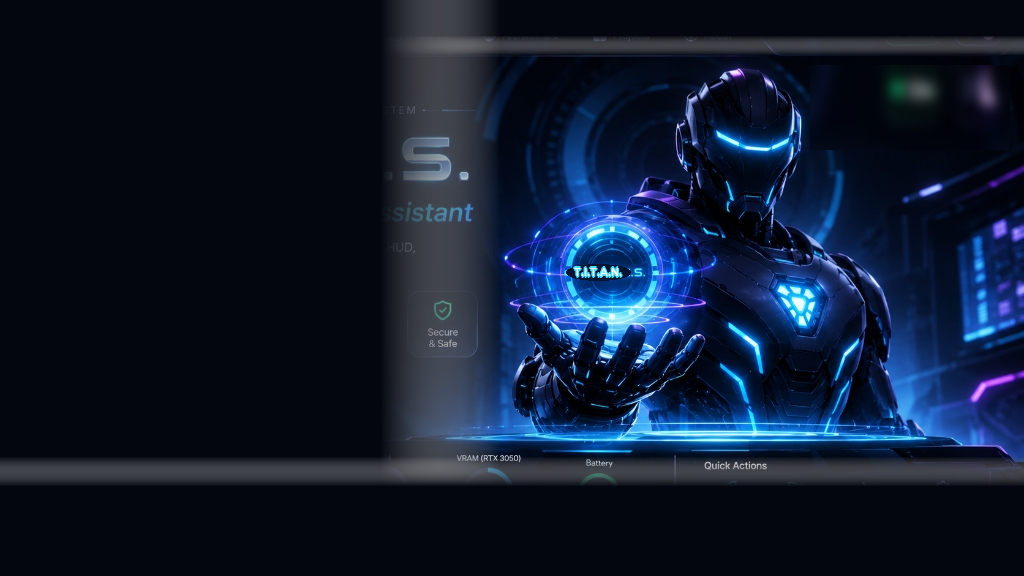
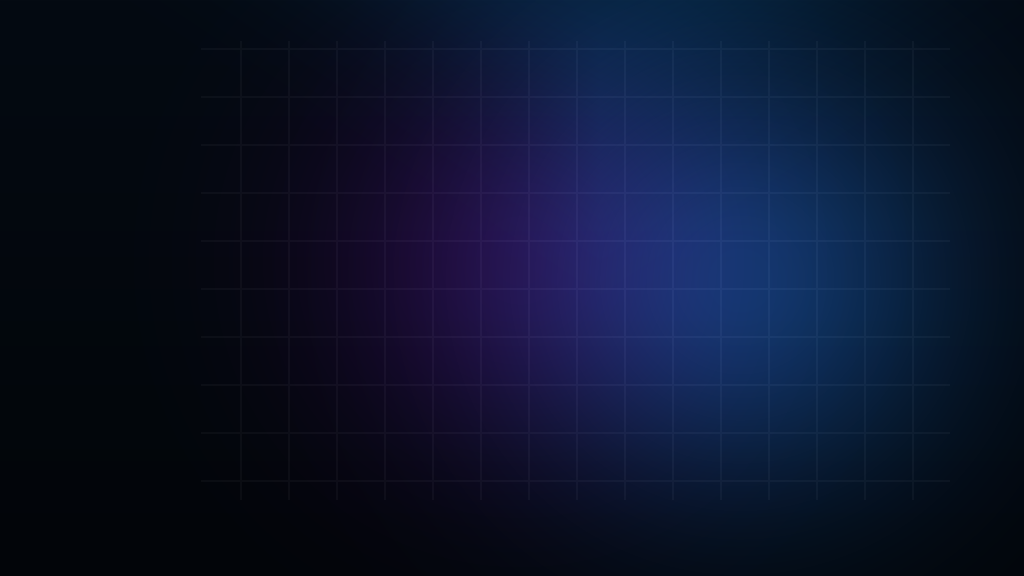
feat: replace hero page mech with user-provided high-res cybernetic robot, add live breathing animation and aligned hologram

diff --git a/ui/static/style.css b/ui/static/style.css
@@ -2023,25 +2023,58 @@ body.dark-theme {
   letter-spacing: 0.12em;
 }
 
-/* Live Animated Hologram Overlay */
+/* Live Animated Hologram & Robot Character */
 .hero-mech-container {
   position: relative;
   width: 100%;
-  height: 280px;
+  max-width: 480px;
+  height: 440px;
+  display: flex;
+  align-items: center;
+  justify-content: center;
+  pointer-events: auto;
+}
+
+.hero-robot-figure {
+  width: 100%;
+  height: 100%;
+  object-fit: contain;
+  object-position: center bottom;
+  filter: drop-shadow(0 0 25px rgba(56, 189, 248, 0.45)) drop-shadow(0 0 50px rgba(99, 102, 241, 0.25));
+  animation: robotBreathing 4.5s ease-in-out infinite alternate;
+  pointer-events: auto;
+  user-select: none;
+  -webkit-user-drag: none;
+  transition: transform 0.3s ease, filter 0.3s ease;
+}
+
+.hero-robot-figure:hover {
+  filter: drop-shadow(0 0 35px rgba(56, 189, 248, 0.7)) drop-shadow(0 0 70px rgba(99, 102, 241, 0.4));
+}
+
+@keyframes robotBreathing {
+  0% { transform: translateY(0) scale(1); }
+  100% { transform: translateY(-8px) scale(1.015); }
 }
 
 .hero-hologram-overlay {
   position: absolute;
-  right: 48%;
-  top: 50%;
-  transform: translate(50%, -50%);
-  width: 140px;
-  height: 140px;
+  left: 25.4%;
+  top: 54.7%;
+  transform: translate(-50%, -50%);
+  width: 130px;
+  height: 130px;
   display: flex;
   align-items: center;
   justify-content: center;
   pointer-events: auto;
   cursor: pointer;
+  animation: hologramFloat 4.5s ease-in-out infinite alternate;
+}
+
+@keyframes hologramFloat {
+  0% { transform: translate(-50%, -50%) translateY(0); }
+  100% { transform: translate(-50%, -50%) translateY(-8px); }
 }
 
 .holo-ring {
@@ -3148,25 +3181,58 @@ body.dark-theme {
   letter-spacing: 0.12em;
 }
 
-/* Live Animated Hologram Overlay */
+/* Live Animated Hologram & Robot Character */
 .hero-mech-container {
   position: relative;
   width: 100%;
-  height: 280px;
+  max-width: 480px;
+  height: 440px;
+  display: flex;
+  align-items: center;
+  justify-content: center;
+  pointer-events: auto;
+}
+
+.hero-robot-figure {
+  width: 100%;
+  height: 100%;
+  object-fit: contain;
+  object-position: center bottom;
+  filter: drop-shadow(0 0 25px rgba(56, 189, 248, 0.45)) drop-shadow(0 0 50px rgba(99, 102, 241, 0.25));
+  animation: robotBreathing 4.5s ease-in-out infinite alternate;
+  pointer-events: auto;
+  user-select: none;
+  -webkit-user-drag: none;
+  transition: transform 0.3s ease, filter 0.3s ease;
+}
+
+.hero-robot-figure:hover {
+  filter: drop-shadow(0 0 35px rgba(56, 189, 248, 0.7)) drop-shadow(0 0 70px rgba(99, 102, 241, 0.4));
+}
+
+@keyframes robotBreathing {
+  0% { transform: translateY(0) scale(1); }
+  100% { transform: translateY(-8px) scale(1.015); }
 }
 
 .hero-hologram-overlay {
   position: absolute;
-  right: 48%;
-  top: 50%;
-  transform: translate(50%, -50%);
-  width: 140px;
-  height: 140px;
+  left: 25.4%;
+  top: 54.7%;
+  transform: translate(-50%, -50%);
+  width: 130px;
+  height: 130px;
   display: flex;
   align-items: center;
   justify-content: center;
   pointer-events: auto;
   cursor: pointer;
+  animation: hologramFloat 4.5s ease-in-out infinite alternate;
+}
+
+@keyframes hologramFloat {
+  0% { transform: translate(-50%, -50%) translateY(0); }
+  100% { transform: translate(-50%, -50%) translateY(-8px); }
 }
 
 .holo-ring {

diff --git a/ui/static/index.html b/ui/static/index.html
@@ -173,6 +173,7 @@
 
         <!-- The Mech & Live Animated Hologram Overlay -->
         <div class="hero-mech-container">
+          <img src="assets/titan_robot.png" class="hero-robot-figure" alt="TITAN Cybernetic Mech">
           <div class="hero-hologram-overlay" title="TITAN Neural Core Hologram">
             <div class="holo-ring holo-ring-1"></div>
             <div class="holo-ring holo-ring-2"></div>
